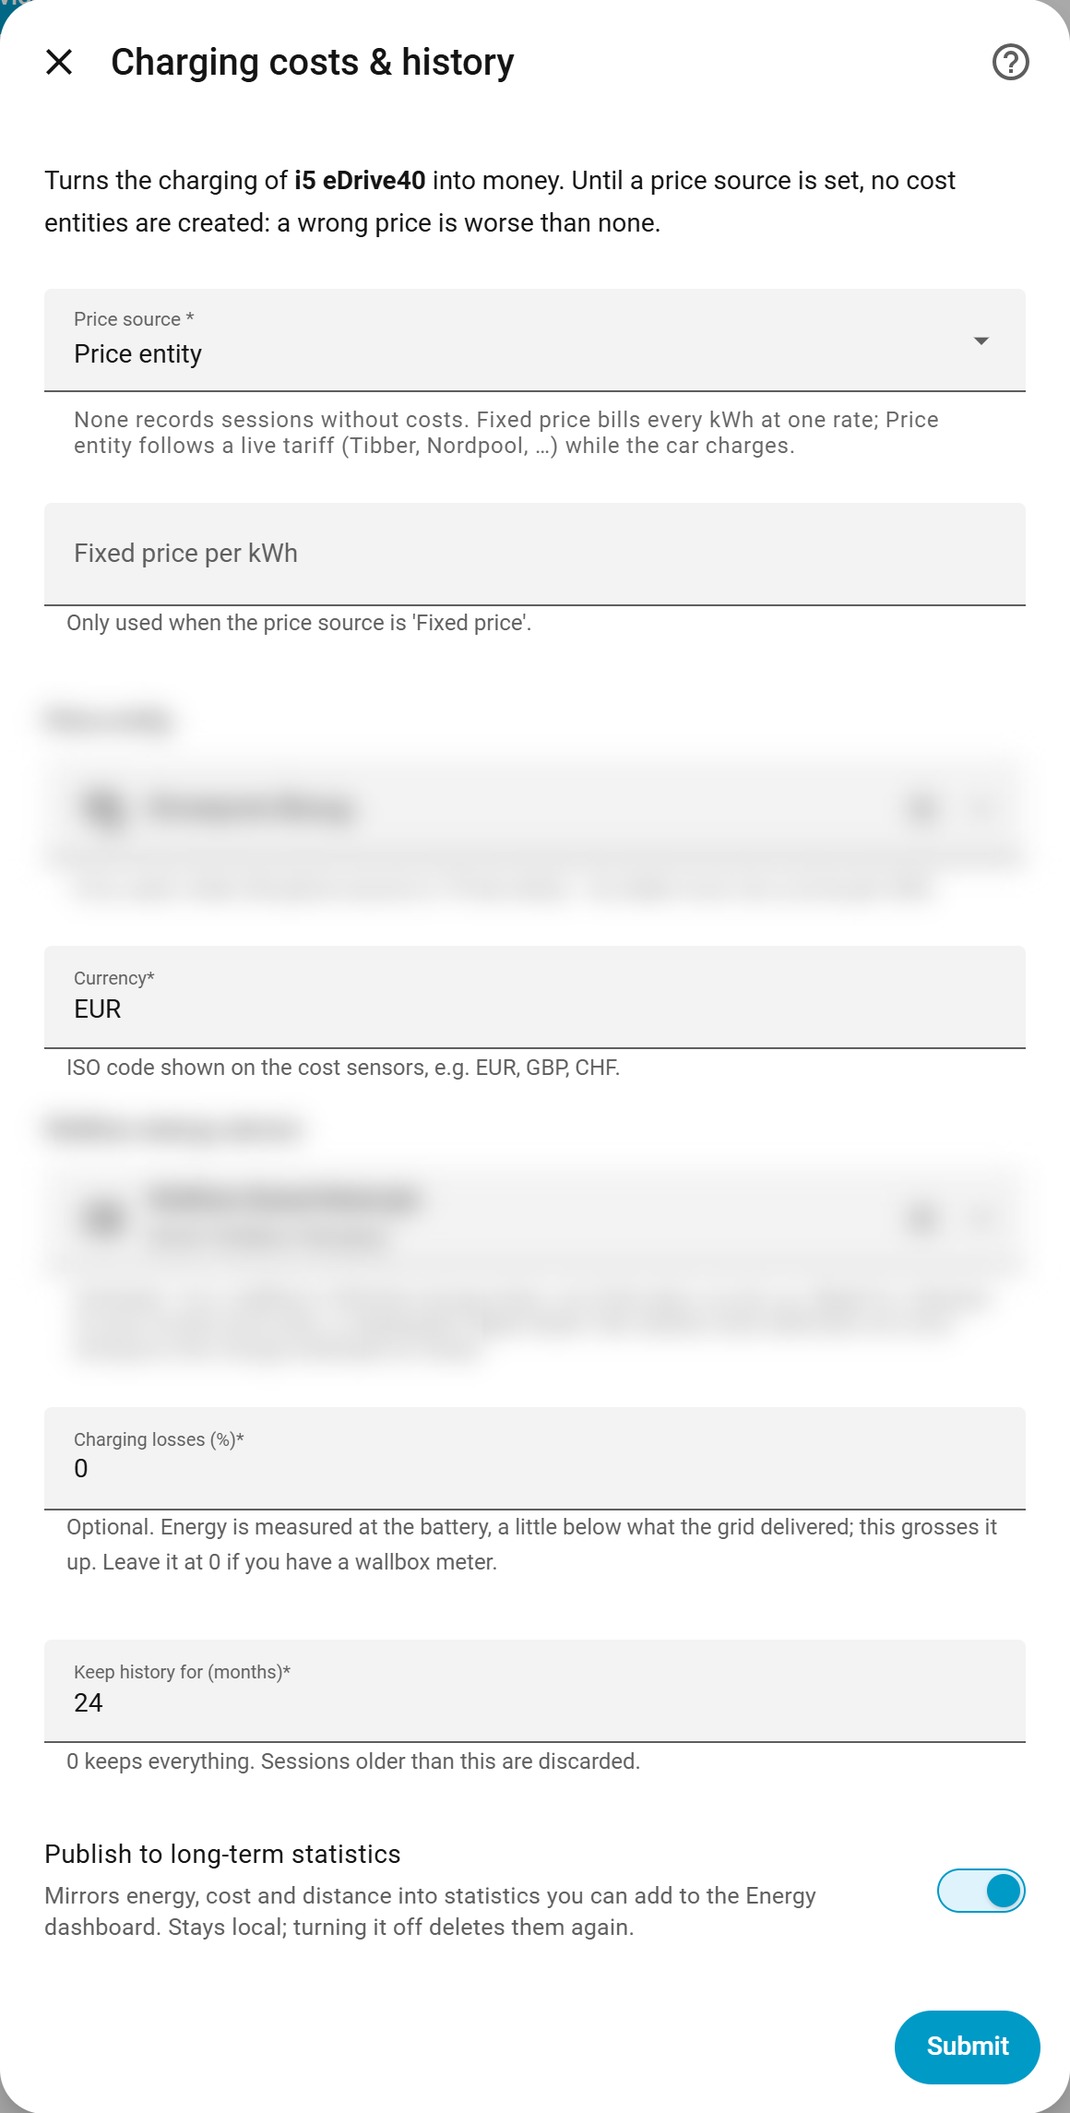
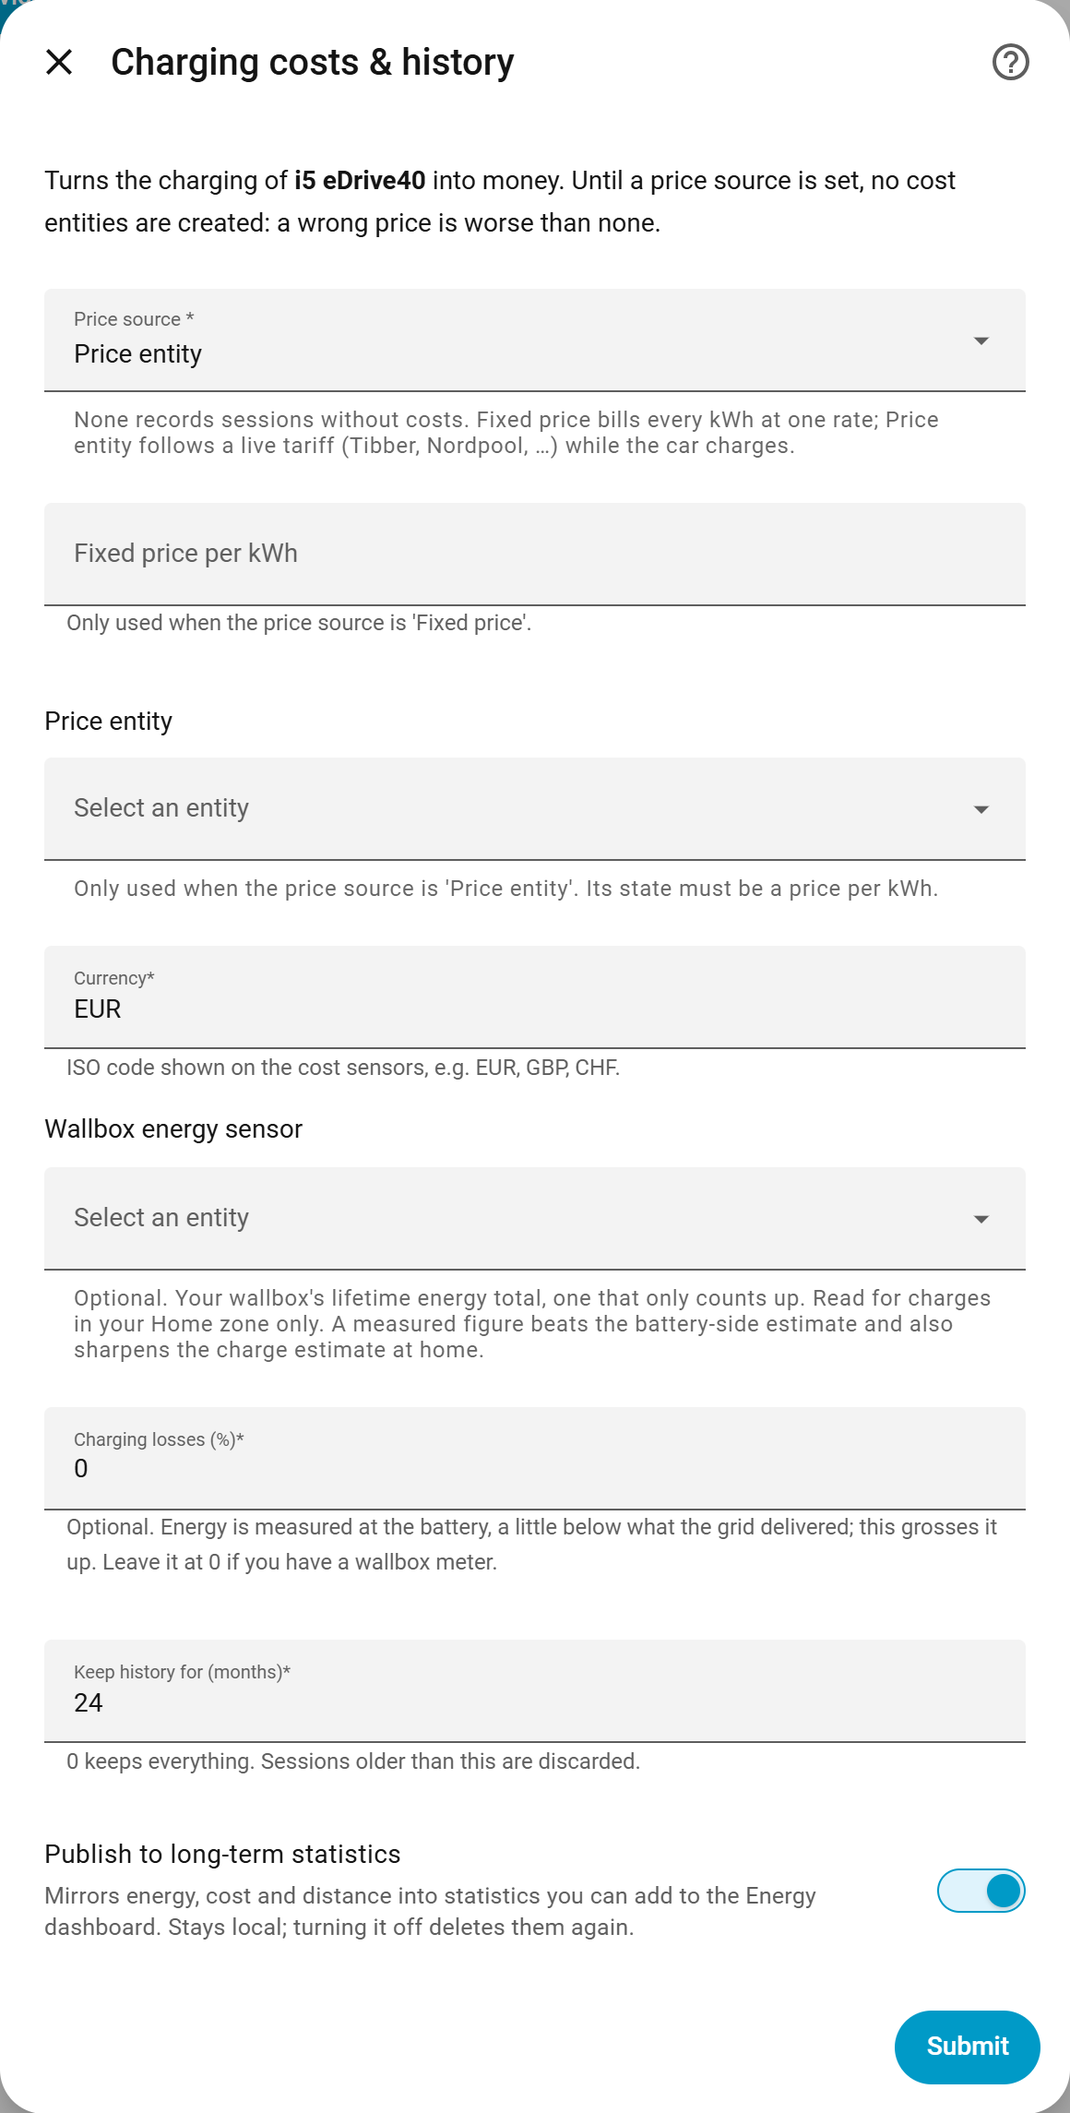
Show the per-car settings screens in the wiki
Settings now pictures each per-car screen next to its text: Trips, Charging
costs and the evcc bridge as one car sees them, the vehicle question, and
each screen for a second car with the shared "All vehicles" section. Multiple
cars shows the vehicle question beside a short note on per-car settings.
English and German pages share the pictures, as elsewhere in the wiki.

The two-car pictures are staged in the real HA dialog (beta.2, real
translations) with mock_flow.js, which now shows entity pickers empty instead
of blurred: the user's zone and sensor names never reach a picture, and the
field labels stay readable.

diff --git a/.claude/skills/flow-ux/mock_flow.js b/.claude/skills/flow-ux/mock_flow.js
@@ -6,7 +6,8 @@
 // build's translations. The staged submit never reaches Home Assistant, any
 // other flow call is aborted, and closing the browser abandons the flow:
 // nothing can be saved, in either mode (the real form is never submitted).
-// Entity pickers holding a value are blurred: they show the user's own names.
+// Entity pickers are shown empty: their values are the user's own entity and
+// zone names, so they are dropped from the step before HA draws it.
 //
 // Run from a directory with playwright-core installed (see the shoot skill):
 //   HA_URL=http://<host> HA_TOKEN=<token> \
@@ -63,6 +64,19 @@ const NEXT = { en: "Next", de: "Weiter" };
 
 let realStep = null;
 let phase = "menu";
+
+// Drop the user's entity choices (zone, meter, price sensor) from a step, in
+// sections too, so a picture can be published without them.
+function withoutEntities(schema) {
+  return schema.map((field) => {
+    if (field.type === "expandable") return { ...field, schema: withoutEntities(field.schema) };
+    if (!field.selector || !field.selector.entity) return field;
+    const copy = { ...field };
+    delete copy.description;
+    delete copy.default;
+    return copy;
+  });
+}
 
 function pickerStep(base) {
   const first = base.description_placeholders.vehicle;
@@ -138,22 +152,8 @@ async function dialogRect(page) {
   });
 }
 
-async function blurValuedPickers(page) {
-  await page.evaluate(() => {
-    const walk = (root) => {
-      for (const el of root.querySelectorAll("*")) {
-        if (el.tagName.toLowerCase() === "ha-selector-entity" && el.value) el.style.filter = "blur(7px)";
-        if (el.shadowRoot) walk(el.shadowRoot);
-      }
-    };
-    walk(document);
-  });
-}
-
 async function shot(page, name) {
   await page.waitForTimeout(1200);
-  await blurValuedPickers(page);
-  await page.waitForTimeout(300);
   const clip = await dialogRect(page);
   if (!clip) throw new Error("no dialog for " + name);
   const file = path.join(outdir, `${screenName}-${mode}-${lang}-${width}-${name}.png`);
@@ -187,6 +187,7 @@ async function shot(page, name) {
       if (phase === "menu" && body.next_step_id === screen.step) {
         const response = await route.fetch();
         realStep = await response.json();
+        realStep.data_schema = withoutEntities(realStep.data_schema);
         fs.writeFileSync(path.join(outdir, `real-${screenName}-step.json`), JSON.stringify(realStep, null, 2));
         phase = "picker";
         return route.fulfill({ json: pickerStep(realStep) });
@@ -199,12 +200,17 @@ async function shot(page, name) {
       return route.abort();
     });
   } else {
-    // The real form is shown, never submitted; refuse a submit all the same.
+    // The real form, minus the user's entity choices; never submitted, and a
+    // submit is refused all the same.
     await page.route("**/api/config/config_entries/options/flow/*", async (route) => {
       const request = route.request();
-      const body = request.method() === "POST" ? JSON.parse(request.postData() || "{}") : {};
-      if (request.method() === "POST" && !("next_step_id" in body)) return route.abort();
-      return route.continue();
+      if (request.method() !== "POST") return route.continue();
+      const body = JSON.parse(request.postData() || "{}");
+      if (!("next_step_id" in body)) return route.abort();
+      const response = await route.fetch();
+      const step = await response.json();
+      if (step.data_schema) step.data_schema = withoutEntities(step.data_schema);
+      return route.fulfill({ json: step });
     });
   }
 

diff --git a/docs/wiki/de/DE-Settings-Reference.md b/docs/wiki/de/DE-Settings-Reference.md
@@ -79,6 +79,10 @@ beendet abgelegt — siehe [Neustart während das Auto lädt](DE-Feature-Chargin
 Bildschirm: **Konfigurieren → Ladekosten & Verlauf**. Die Konzepte stehen unter
 [Ladeverlauf & Kosten](DE-Feature-Charging-History-and-Cost).
 
+<p align="center">
+  <img src="https://raw.githubusercontent.com/JustChr/BavarianData/main/screenshots/bavariandata-charging-costs.png?v=2026-10-11b" alt="Einstellungen Ladekosten & Verlauf: Preisquelle, fester Preis, Preis-Entität, Währung, Wallbox-Energiesensor, Ladeverluste und Aufbewahrung" width="460" />
+</p>
+
 **Mehrere Fahrzeuge im Konto?** Der Bildschirm fragt zuerst nach dem Fahrzeug.
 Jedes Auto behält seinen eigenen **Wallbox-Energiesensor** und seine eigenen
 **Ladeverluste**: Zwei Autos können an zwei Wallboxen laden, über zwei
@@ -87,7 +91,7 @@ alle Autos; sie stehen im Abschnitt **Alle Fahrzeuge** unter den Einstellungen
 des Autos. Mit nur einem Auto gibt es keine Fahrzeugabfrage.
 
 <p align="center">
-  <img src="https://raw.githubusercontent.com/JustChr/BavarianData/main/screenshots/bavariandata-charging-costs.png?v=2026-10-11" alt="Einstellungen Ladekosten & Verlauf: Preisquelle, fester Preis, Preis-Entität, Währung, Wallbox-Energiesensor, Ladeverluste und Aufbewahrung" width="460" />
+  <img src="https://raw.githubusercontent.com/JustChr/BavarianData/main/screenshots/bavariandata-charging-costs-second-car.png?v=2026-10-11b" alt="Ladekosten für ein zweites Auto: oben sein eigener Wallbox-Sensor und seine Ladeverluste, darunter die gemeinsamen Preiseinstellungen im Abschnitt Alle Fahrzeuge" width="460" />
 </p>
 
 | Option | Werte | Bedeutung |
@@ -135,11 +139,19 @@ Template-Sensor nicht angeboten, gib ihm `device_class: power` (und eine
 Bildschirm: **Konfigurieren → evcc-/Wallbox-Brücke**. Konzepte, Topic-Tabelle und
 Fehlerbehebung stehen unter [evcc- & Wallbox-Brücke](DE-Feature-evcc-and-Wallbox-Bridge).
 
+<p align="center">
+  <img src="https://raw.githubusercontent.com/JustChr/BavarianData/main/screenshots/bavariandata-evcc-bridge.png?v=2026-10-11b" alt="evcc-/Wallbox-Brücke mit einem Auto: dieses Auto per MQTT veröffentlichen, Topic-Prefix und mit Retain veröffentlichen" width="460" />
+</p>
+
 **Mehrere Fahrzeuge im Konto?** Der Bildschirm fragt zuerst nach dem Fahrzeug,
 und **Dieses Auto per MQTT veröffentlichen** gilt je Auto, sodass ein Auto, das
 woanders lädt, samt FIN vom Broker fernbleiben kann. Schaltest du ein Auto aus,
 werden seine Topics entfernt. **Topic-Prefix** und **Mit Retain veröffentlichen**
 gelten für alle Autos, im eingeklappten Abschnitt **Alle Fahrzeuge**.
+
+<p align="center">
+  <img src="https://raw.githubusercontent.com/JustChr/BavarianData/main/screenshots/bavariandata-evcc-bridge-second-car.png?v=2026-10-11b" alt="evcc-/Wallbox-Brücke für ein zweites Auto: sein eigener Schalter, darunter Topic-Prefix und Retain gemeinsam im Abschnitt Alle Fahrzeuge" width="460" />
+</p>
 
 Veröffentlicht den Live-Zustand des Autos auf deinem MQTT-Broker, sodass evcc, openWB
 oder ein Node-RED-Flow einen Ladezustand lesen kann, der kein
@@ -161,6 +173,10 @@ evcc-Konfiguration zum Einfügen.
 Bildschirm: **Konfigurieren → Fahrten**. Die Konzepte stehen unter
 [Fahrten](DE-Feature-Trips).
 
+<p align="center">
+  <img src="https://raw.githubusercontent.com/JustChr/BavarianData/main/screenshots/bavariandata-configure-trips.png?v=2026-10-11b" alt="Konfigurieren, Fahrten mit einem Auto: Arbeitszone, Standard-Typ, Toleranz für Zwischenstopps, Fahrterkennung, Route aufzeichnen, Adressen auflösen und Fahrt-Diagnoseaufzeichnung" width="460" />
+</p>
+
 **Mehrere Fahrzeuge im Konto?** Fahrten fragt zuerst nach dem Fahrzeug, und jedes
 Auto behält seine eigene **Arbeitszone**, seinen **Standard-Typ**, seine
 **Toleranz für Zwischenstopps**, **Fahrterkennung** und **Route aufzeichnen**:
@@ -170,6 +186,14 @@ während der Fahrt streamt. **Adressen auflösen** und die
 eingeklappten Abschnitt **Alle Fahrzeuge** unten im Formular jedes Autos. Ein
 später hinzugekommenes Auto startet mit den Einstellungen, die vorher galten.
 Mit nur einem Auto gibt es keine Fahrzeugabfrage.
+
+<p align="center">
+  <img src="https://raw.githubusercontent.com/JustChr/BavarianData/main/screenshots/bavariandata-vehicle-picker.png?v=2026-10-11b" alt="Die Fahrzeugabfrage bei zwei Autos: eine Fahrzeug-Auswahl und die Schaltfläche Weiter" width="460" />
+</p>
+
+<p align="center">
+  <img src="https://raw.githubusercontent.com/JustChr/BavarianData/main/screenshots/bavariandata-configure-trips-second-car.png?v=2026-10-11b" alt="Fahrteinstellungen für ein zweites Auto mit Berichten am Fahrtende, darunter der geöffnete gemeinsame Abschnitt Alle Fahrzeuge" width="460" />
+</p>
 
 | Option | Werte | Bedeutung |
 | --- | --- | --- |

diff --git a/docs/wiki/Settings-Reference.md b/docs/wiki/Settings-Reference.md
@@ -73,6 +73,10 @@ carries on as the same session, stopped and it is recorded as ended — see
 Screen: **Configure → Charging costs & history**. See
 [Charging history & cost](Feature-Charging-History-and-Cost) for the concepts.
 
+<p align="center">
+  <img src="https://raw.githubusercontent.com/JustChr/BavarianData/main/screenshots/bavariandata-charging-costs.png?v=2026-10-11b" alt="Charging costs & history settings: price source, fixed price, price entity, currency, wallbox energy sensor, charging losses and retention" width="460" />
+</p>
+
 **Several cars on the account?** The screen first asks which vehicle. Each car
 keeps its own **Wallbox energy sensor** and **Charging losses**: two cars can
 charge at two wallboxes, through two different chargers. The price, currency,
@@ -81,7 +85,7 @@ vehicles** section below the car's own. With one car there is no vehicle
 question.
 
 <p align="center">
-  <img src="https://raw.githubusercontent.com/JustChr/BavarianData/main/screenshots/bavariandata-charging-costs.png?v=2026-10-11" alt="Charging costs & history settings: price source, fixed price, price entity, currency, wallbox energy sensor, charging losses and retention" width="460" />
+  <img src="https://raw.githubusercontent.com/JustChr/BavarianData/main/screenshots/bavariandata-charging-costs-second-car.png?v=2026-10-11b" alt="Charging costs for a second car: its own wallbox sensor and charging losses on top, the shared price settings in the All vehicles section below" width="460" />
 </p>
 
 | Option | Values | Meaning |
@@ -127,11 +131,19 @@ Screen: **Configure → evcc / wallbox bridge**. See
 [evcc & wallbox bridge](Feature-evcc-and-Wallbox-Bridge) for the concepts, the
 topic table and the troubleshooting.
 
+<p align="center">
+  <img src="https://raw.githubusercontent.com/JustChr/BavarianData/main/screenshots/bavariandata-evcc-bridge.png?v=2026-10-11b" alt="evcc / wallbox bridge with one car: publish this car to MQTT, topic prefix and publish retained" width="460" />
+</p>
+
 **Several cars on the account?** The screen first asks which vehicle, and
 **Publish this car to MQTT** is per car, so a car charged elsewhere can stay
 off the broker, VIN included. Switching one car off removes that car's topics.
 **Topic prefix** and **Publish retained** apply to every car, in the collapsed
 **All vehicles** section.
+
+<p align="center">
+  <img src="https://raw.githubusercontent.com/JustChr/BavarianData/main/screenshots/bavariandata-evcc-bridge-second-car.png?v=2026-10-11b" alt="evcc / wallbox bridge for a second car: its own publish switch, the shared topic prefix and retained setting in the All vehicles section" width="460" />
+</p>
 
 Publishes the car's live state onto your MQTT broker so evcc, openWB or a
 Node-RED flow can read a state of charge that costs no
@@ -150,6 +162,10 @@ ready-to-paste evcc configuration.
 
 Screen: **Configure → Trips**. See [Trips](Feature-Trips) for the concepts.
 
+<p align="center">
+  <img src="https://raw.githubusercontent.com/JustChr/BavarianData/main/screenshots/bavariandata-configure-trips.png?v=2026-10-11b" alt="Configure, Trips with one car: work zone, default type, commute stop tolerance, trip detection, record route, resolve addresses and trip-capture diagnostics" width="460" />
+</p>
+
 **Several cars on the account?** Trips first asks which vehicle, and each car
 keeps its own **Work zone**, **Default type**, **Commute stop tolerance**,
 **Trip detection** and **Record route**: a company car and a private one, or an
@@ -158,6 +174,14 @@ older car next to one that streams while driving. **Resolve addresses** and
 **All vehicles** section at the bottom of each car's form. A car added later
 starts with the settings that were in use before it arrived. With one car
 there is no vehicle question.
+
+<p align="center">
+  <img src="https://raw.githubusercontent.com/JustChr/BavarianData/main/screenshots/bavariandata-vehicle-picker.png?v=2026-10-11b" alt="The vehicle question with two cars: a Vehicle dropdown and a Next button" width="460" />
+</p>
+
+<p align="center">
+  <img src="https://raw.githubusercontent.com/JustChr/BavarianData/main/screenshots/bavariandata-configure-trips-second-car.png?v=2026-10-11b" alt="Trips settings for a second car on End-of-trip reports, with the shared All vehicles section opened below" width="460" />
+</p>
 
 | Option | Values | Meaning |
 | --- | --- | --- |

diff --git a/docs/documentation-plan.md b/docs/documentation-plan.md
@@ -152,13 +152,13 @@ These live on BMW's MyBMW / CarData portal, not in our code. Screenshots are
 | `action_fetch_location_charging` | Fetch location charging settings | 🟡 | — |
 | `action_fetch_image` | Fetch vehicle image | 🟡 | — |
 | `action_data_refresh` | Automatic data refresh | 🟢 Settings-Reference → "Automatic data refresh" | 📷 |
-| `charging_vehicle` | Charging costs: which vehicle (only with 2+ cars) | 🟢 Settings-Reference → "Charging costs & history" + Feature-Multiple-Cars-and-Accounts (EN + DE) | 📷 **owed** — stage it with `.claude/skills/flow-ux/mock_flow.js` |
-| `action_charging_costs` | Charging costs & history (per car with 2+ cars: meter and losses; price etc. in "All vehicles") | 🟡 | 📷 |
-| `bridge_vehicle` | evcc bridge: which vehicle (only with 2+ cars) | 🟢 Settings-Reference → "evcc / wallbox bridge" + Feature-Multiple-Cars-and-Accounts (EN + DE) | 📷 **owed** — stage it with `.claude/skills/flow-ux/mock_flow.js` |
-| `action_evcc_bridge` | evcc / wallbox bridge (per car with 2+ cars: publish on/off; prefix and retained in "All vehicles") | 🟢 Feature-evcc-and-Wallbox-Bridge + Settings-Reference → "evcc / wallbox bridge" | 📷 **owed** — needs the build installed |
+| `charging_vehicle` | Charging costs: which vehicle (only with 2+ cars) | 🟢 Settings-Reference → "Charging costs & history" + Feature-Multiple-Cars-and-Accounts (EN + DE) | 📷 (have, staged two-car: `bavariandata-charging-costs-second-car.png`; picker shared) |
+| `action_charging_costs` | Charging costs & history (per car with 2+ cars: meter and losses; price etc. in "All vehicles") | 🟡 | 📷 (have, 2026-10-11: `bavariandata-charging-costs.png`) |
+| `bridge_vehicle` | evcc bridge: which vehicle (only with 2+ cars) | 🟢 Settings-Reference → "evcc / wallbox bridge" + Feature-Multiple-Cars-and-Accounts (EN + DE) | 📷 (have, staged two-car: `bavariandata-evcc-bridge-second-car.png`; picker shared) |
+| `action_evcc_bridge` | evcc / wallbox bridge (per car with 2+ cars: publish on/off; prefix and retained in "All vehicles") | 🟢 Feature-evcc-and-Wallbox-Bridge + Settings-Reference → "evcc / wallbox bridge" | 📷 (have, 2026-10-11: `bavariandata-evcc-bridge.png`) |
 | `evcc_snippet` | evcc configuration (generated, paste-ready) | 🟢 Feature-evcc-and-Wallbox-Bridge → "Setting it up" | 📷 **owed** — needs the build installed |
-| `trips_vehicle` | Trips: which vehicle (only with 2+ cars) | 🟢 Settings-Reference → "Trips" + Feature-Multiple-Cars-and-Accounts → "Telling the cars apart" (EN + DE) | 📷 **owed** — stage it with `.claude/skills/flow-ux/mock_flow.js` (no second car needed) |
-| `action_trips` | Trips (per car with 2+ cars; shared settings in the collapsed "All vehicles" section) | 🟡 | 📷 |
+| `trips_vehicle` | Trips: which vehicle (only with 2+ cars) | 🟢 Settings-Reference → "Trips" + Feature-Multiple-Cars-and-Accounts → "Telling the cars apart" (EN + DE) | 📷 (have, staged two-car: `bavariandata-vehicle-picker.png`) |
+| `action_trips` | Trips (per car with 2+ cars; shared settings in the collapsed "All vehicles" section) | 🟡 | 📷 (have, 2026-10-11: `bavariandata-configure-trips.png`) |
 | `action_debug_logging` | Debug logging toggle | 🟡 | 📷 |
 
 ### Settings (option keys) — the fields inside those screens

diff --git a/docs/wiki/de/DE-Feature-Multiple-Cars-and-Accounts.md b/docs/wiki/de/DE-Feature-Multiple-Cars-and-Accounts.md
@@ -123,6 +123,15 @@ Konten haben je 50, weil BMW pro Konto zählt. Siehe
 | **Debug-Protokollierung** | Der Log-Level ist ein Schalter für die ganze Integration — er kann nicht je Konto gelten. Die ausführliche Protokollierung bleibt aktiv, solange **irgendein** Eintrag sie anhat, und protokolliert währenddessen die Daten aller Konten. |
 | **Reparaturen & Hinweise** | Abdeckungs- und Stream-Reparaturen nennen das Fahrzeug. Die Kontingent-Reparatur nennt kein Konto — prüfe bei zwei Einträgen die Diagnose-Entität **Verbleibendes API-Kontingent** am jeweiligen Debug-Gerät. |
 
+**Einstellungen je Fahrzeug.** Fahrten, Ladekosten und die evcc-Brücke fragen
+zuerst nach dem Fahrzeug; die nächste Seite beginnt mit den eigenen
+Einstellungen dieses Autos, die gemeinsamen folgen unter **Alle Fahrzeuge**.
+Siehe [Einstellungen](DE-Settings-Reference#trips).
+
+<p align="center">
+  <img src="https://raw.githubusercontent.com/JustChr/BavarianData/main/screenshots/bavariandata-vehicle-picker.png?v=2026-10-11b" alt="Die Fahrzeugabfrage bei zwei Autos: eine Fahrzeug-Auswahl und die Schaltfläche Weiter" width="460" />
+</p>
+
 ## Einen Eintrag entfernen
 
 <a id="removing-an-entry"></a>

diff --git a/docs/wiki/Feature-Multiple-Cars-and-Accounts.md b/docs/wiki/Feature-Multiple-Cars-and-Accounts.md
@@ -108,6 +108,15 @@ each, because BMW counts per account. See [API quota](Feature-API-Quota).
 | **Debug logging** | The log level is one switch for the whole integration — it cannot be per account. Verbose logging stays on while **any** entry has it enabled, and logs every account's data while it is on. |
 | **Repairs & notifications** | Coverage and stream repairs name the car. The quota repair names neither account — with two set up, check the **API Quota Remaining** diagnostic entity on each debug device. |
 
+**Settings per car.** Trips, Charging costs and the evcc bridge ask which
+vehicle first; the next screen starts with that car's own settings, and the
+ones every car shares follow under **All vehicles**. See
+[Settings](Settings-Reference#trips).
+
+<p align="center">
+  <img src="https://raw.githubusercontent.com/JustChr/BavarianData/main/screenshots/bavariandata-vehicle-picker.png?v=2026-10-11b" alt="The vehicle question with two cars: a Vehicle dropdown and a Next button" width="460" />
+</p>
+
 ## Removing an entry
 
 Removing one entry leaves the other running: its stream, services and card are

diff --git a/.claude/skills/flow-ux/SKILL.md b/.claude/skills/flow-ux/SKILL.md
@@ -125,8 +125,9 @@ only after Chris has picked one.**
    `real` shoots the screen as the instance shows it). It answers the
    options-flow REST calls in the browser the way the integration would, so
    HA's real dialog renders the step with the installed build's translations
-   (so new strings need a beta first). Entity pickers holding a value are
-   blurred: they show the user's own names.
+   (so new strings need a beta first). Entity pickers are shown empty: their
+   values are the user's own zone and sensor names, so the pictures can go in
+   the wiki as they are.
    Nothing reaches HA (other calls are aborted, the flow is abandoned). Build
    the fake step from the real one the server returns, so its schema is HA's
    own. A section serializes as `{"type": "expandable", "name", "expanded",
